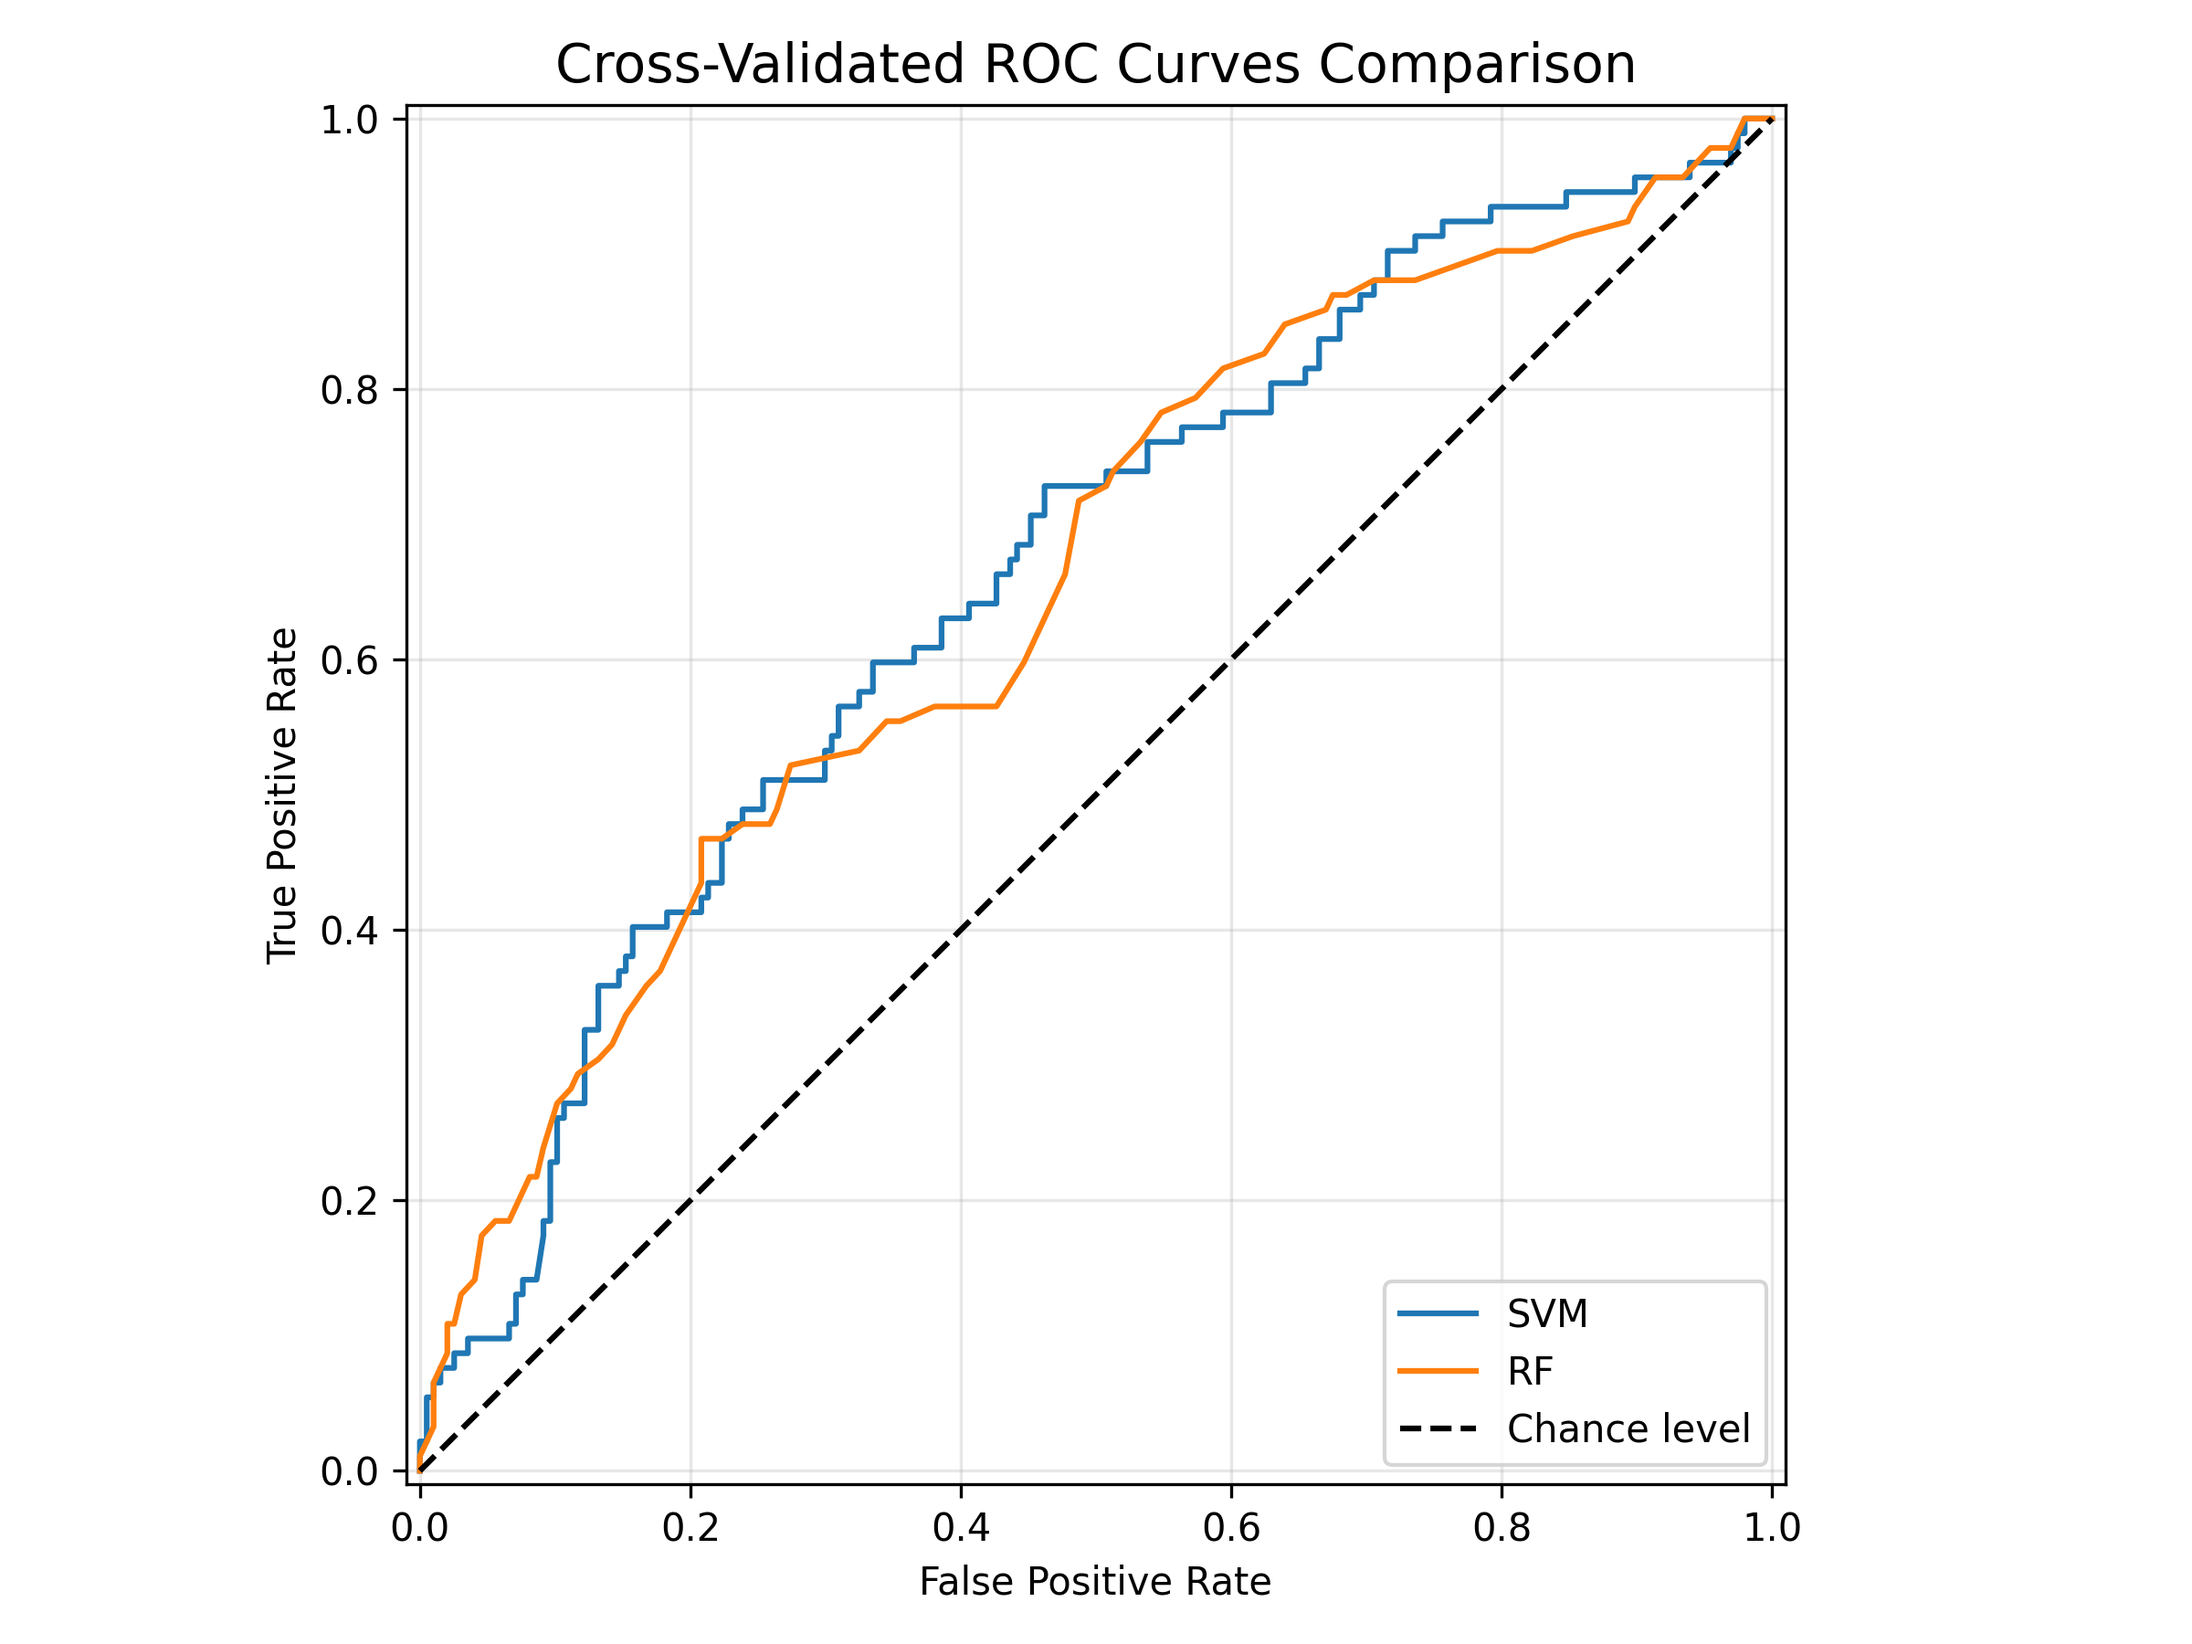
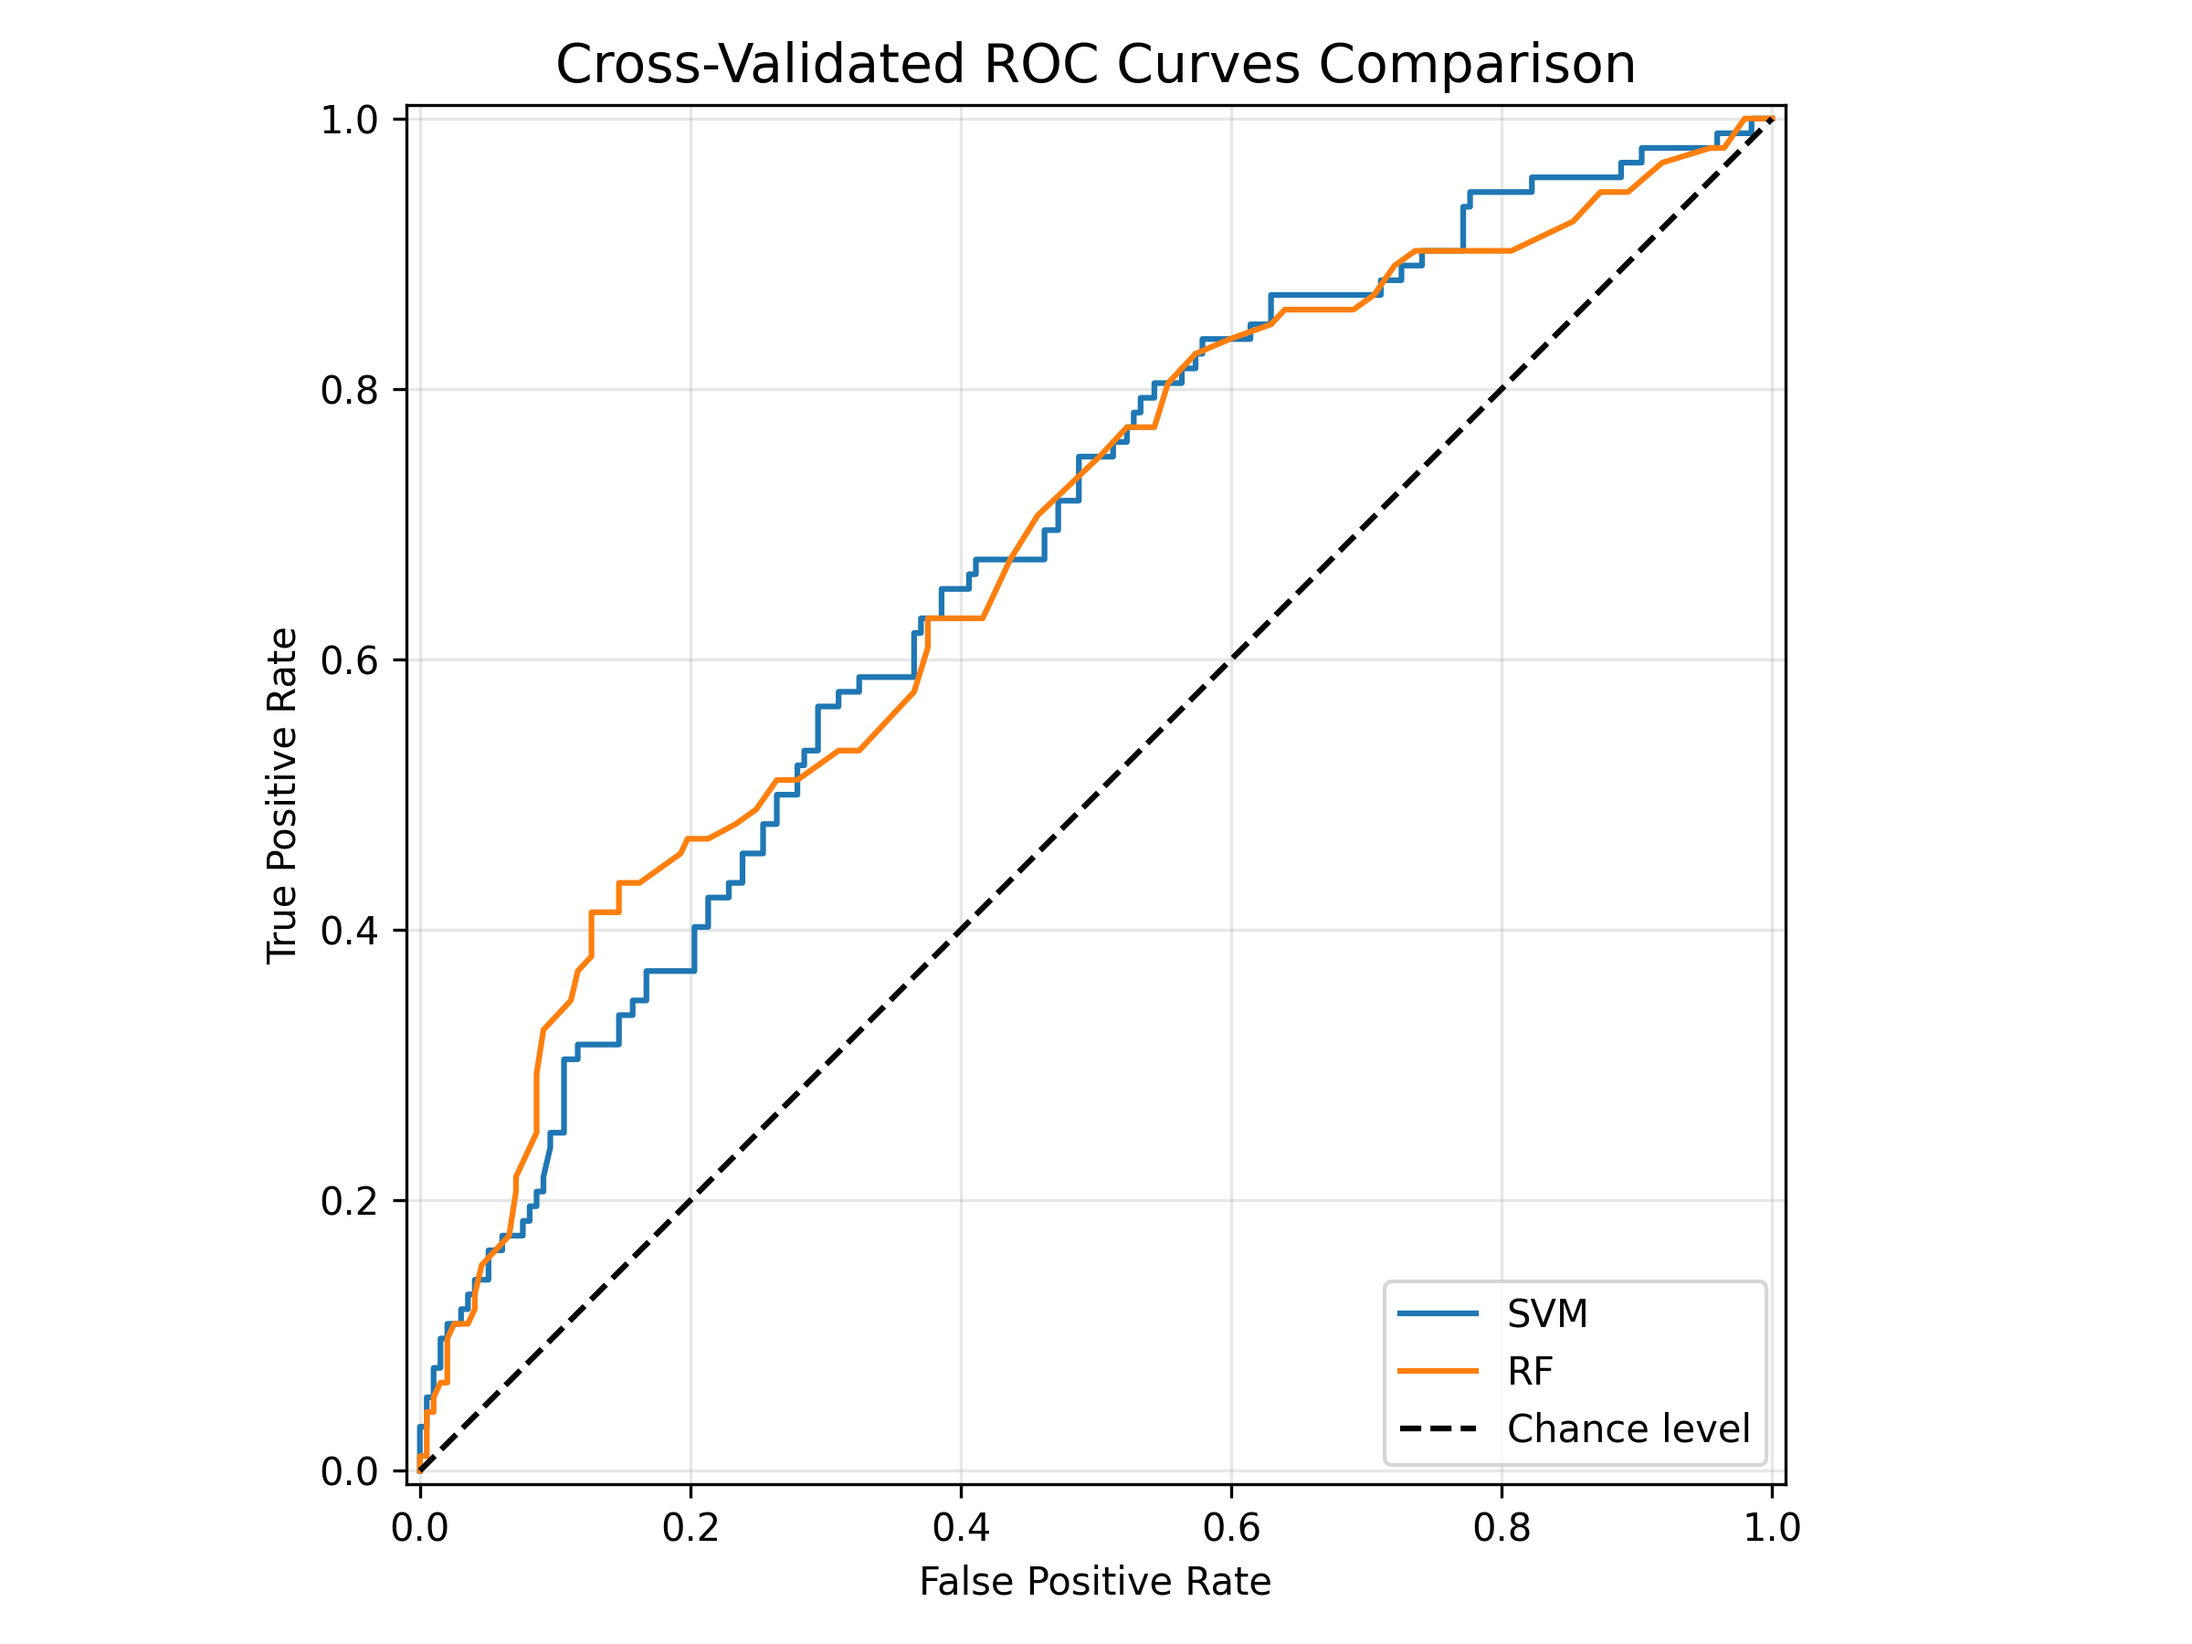
added feature importance on RF classification

Changed region(s): [[0.1875, 0.3733, 0.4688, 0.8711], [0.4375, 0.0622, 0.8125, 0.3733]]

diff --git a/python/ml_classifier.py b/python/ml_classifier.py
@@ -95,10 +95,8 @@ def run_classification(file_path):
 
     # Create a unique DataFrame for comparison, with means and deviations of percentage metrics
     all_results = pd.concat(results).drop(columns=['fit_time', 'score_time'])
-    summary_mean = all_results.groupby(level=0).mean() * 100
-    summary_std = all_results.groupby(level=0).std() * 100
-    summary = summary_mean.join(summary_std, lsuffix='_mean', rsuffix='_std')
-    summary = summary.sort_index(axis=1).round(2)
+    summary = all_results.groupby(level=0).agg(['mean', 'std']) * 100
+    summary = summary.round(2)
     pd.set_option('display.max_columns', None)
     print(f"{output_prefix} MODEL COMPARISON\n", summary)
     summary.to_csv(output_dir / f"{output_prefix}_metrics.csv")
@@ -121,12 +119,22 @@ def run_classification(file_path):
     plt.savefig(output_dir / f"{output_prefix}_confusion_matrices.png")
     plt.show()
 
+# Analyse feature importance in Random Forest
+    if "manual" in output_prefix:
+        rf_model = models["RF"].fit(X, y)
+        importances = rf_model.named_steps['rf'].feature_importances_
+        feat_imp = pd.Series(importances, index=X.columns).sort_values(ascending=True)
+
+        plt.figure(figsize=(10, 6))
+        feat_imp.plot(kind='barh', color='limegreen')
+        plt.title(f"Feature Importance (Random Forest) - {output_prefix}")
+        plt.tight_layout()
+        plt.show()
+
     return summary
 
 if __name__ == "__main__":
-    DATA_PATH1 = "C:/Users/linda/Desktop/materiali università/magistrale/Computing methods for experimental physics/" \
-    "paintings-damage-classification/data/extracted_features/features_manual.csv"
-    DATA_PATH2 = "C:/Users/linda/Desktop/materiali università/magistrale/Computing methods for experimental physics/" \
-    "paintings-damage-classification/data/extracted_features/features_cnn.csv"
-    run_classification(DATA_PATH1)
-    run_classification(DATA_PATH2)
+    BASE_DIR = Path("C:/Users/linda/Desktop/materiali università/magistrale/Computing methods for experimental physics/" \
+    "paintings-damage-classification/data/extracted_features")
+    run_classification(BASE_DIR / "features_manual.csv")
+    run_classification(BASE_DIR / "features_cnn.csv")
